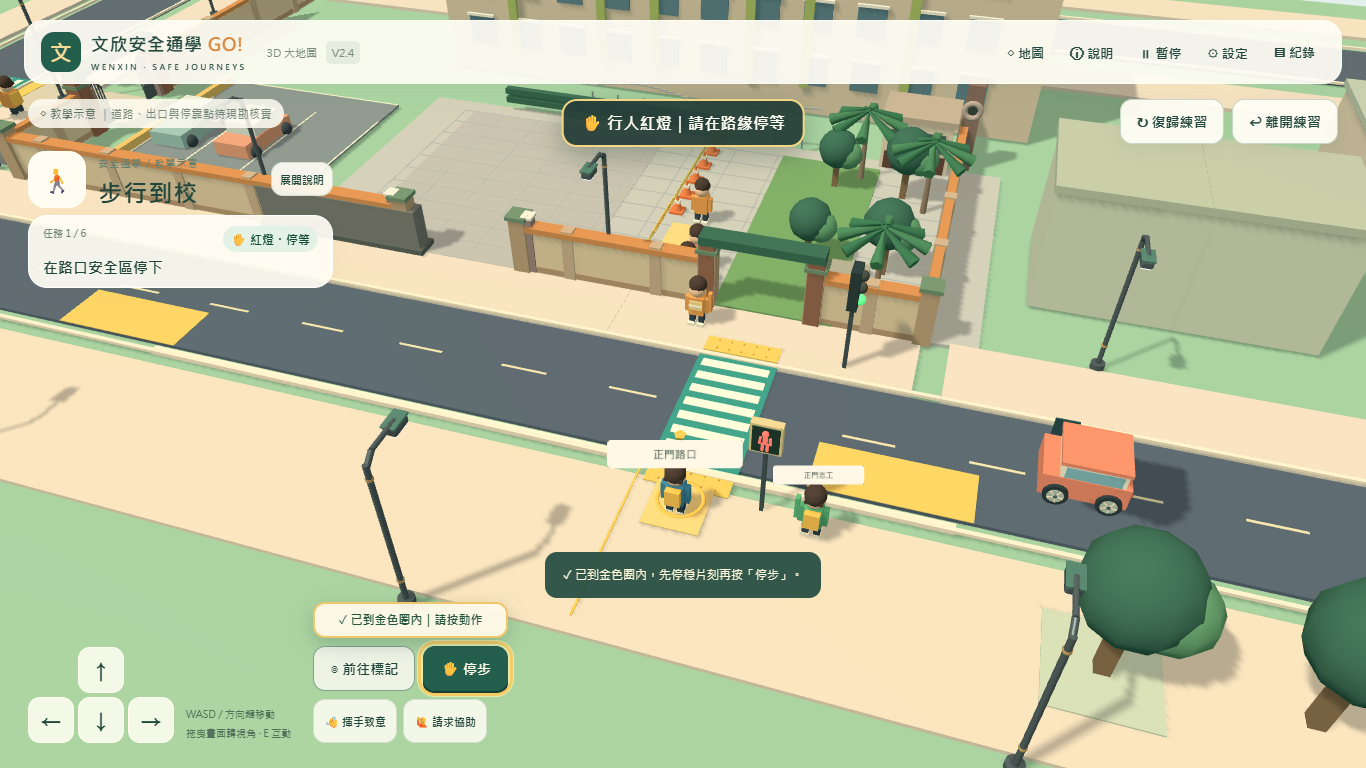
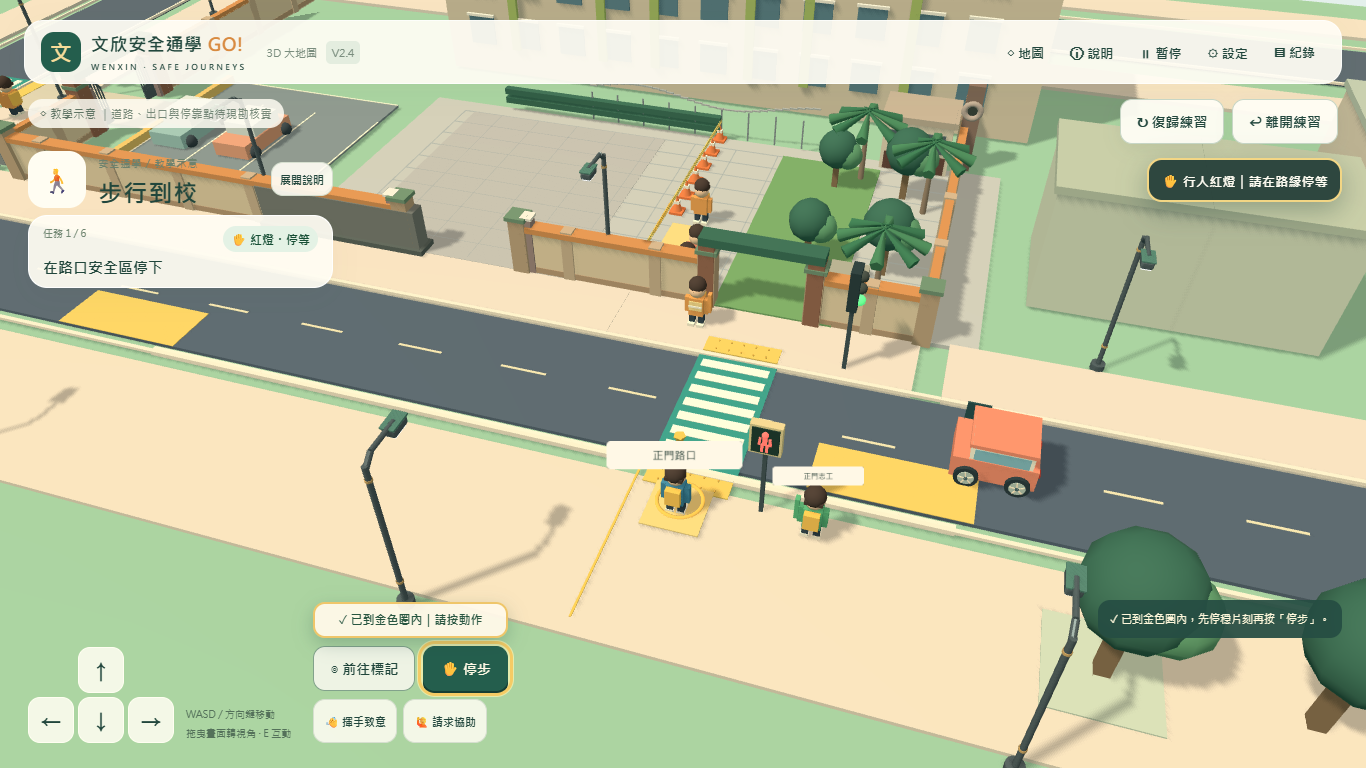
Show contextual prompts near interactions and clear game view

diff --git a/src/main.ts b/src/main.ts
@@ -18,7 +18,7 @@ app.innerHTML=`<div id="world"></div>
 <aside id="greeting-reminder" role="status" aria-live="polite" aria-label="問好提醒" hidden><button id="dismiss-greeting" aria-label="關閉問好提醒">×</button><strong><span class="greeting-full">👋 記得向老師／志工問好</span><span class="greeting-short">👋 記得說早安！</span></strong><p>已安全過街，遇見老師或志工時說聲早安！</p><button id="greet-now" class="primary">👋 向老師／志工問好</button></aside>
 <section id="hud" class="compact" hidden><div class="chapter"><span id="scene-icon"></span><div><small id="scene-kicker">安全通學任務</small><h1 id="scene-title"></h1></div><button id="hud-toggle" aria-expanded="false">展開說明</button></div><section class="task-card"><div class="task-top"><span id="step-counter"></span><span id="signal">✋ 停等</span></div><div class="progress"><i id="progress"></i></div><h2 id="objective"></h2><p id="tip"></p><div class="evidence-row"><span>◎ 安全操作</span><span id="evidence">尚未開始</span></div></section><div id="world-caption" aria-live="polite"></div></section>
 <section id="explore-hud" hidden><p class="eyebrow">自由探索 · 教學示意</p><h1 id="explore-title">走進安全通學大地圖</h1><p id="nearby">靠近地上的金色地點，就能開始練習。</p><button id="overview" aria-pressed="false">◉ 看四面圍牆與雙校門</button></section>
-<footer id="controls" hidden><div class="movement"><div class="dpad" aria-label="移動方向"><button data-move="0,-1" aria-label="向前移動">↑</button><button data-move="-1,0" aria-label="向左移動">←</button><button data-move="0,1" aria-label="向右移動">↓</button><button data-move="1,0" aria-label="向後移動">→</button></div><span class="keyboard-help">WASD / 方向鍵移動<br>拖曳畫面轉視角 · E 互動</span></div><div class="actions"><div id="interaction-hint" role="status" aria-live="polite" hidden>◎ 走進金色圈，再按下方動作</div><button id="assist">◎ 前往標記</button><button id="interact" class="primary">開始互動</button><div class="minor-actions"><button id="greet">👋 揮手致意</button><button id="help">🙋 請求協助</button><button id="exit-vehicle" hidden>🚪 下車</button><button id="release-belt" hidden>🔓 解扣</button></div></div></footer>
+<footer id="controls" hidden><div class="movement"><div class="dpad" aria-label="移動方向"><button data-move="0,-1" aria-label="向前移動">↑</button><button data-move="-1,0" aria-label="向左移動">←</button><button data-move="0,1" aria-label="向後移動">↓</button><button data-move="1,0" aria-label="向右移動">→</button></div><span class="keyboard-help">WASD / 方向鍵移動<br>拖曳畫面轉視角 · E 互動</span></div><div class="actions"><div id="interaction-hint" role="status" aria-live="polite" hidden>◎ 走進金色圈，再按下方動作</div><button id="assist">◎ 前往標記</button><button id="interact" class="primary">開始互動</button><div class="minor-actions"><button id="greet">👋 揮手致意</button><button id="help">🙋 請求協助</button><button id="exit-vehicle" hidden>🚪 下車</button><button id="release-belt" hidden>🔓 解扣</button></div></div></footer>
 <dialog id="menu" class="welcome"><p class="eyebrow">LET'S EXPLORE WENXIN</p><h1>走進同一張<br>安全通學大地圖<span>。</span></h1><p>用方向鍵或觸控在校門、步道與候車區走動；靠近金色地點開始練習；步行任務先走進金色圈，再按動作鍵。</p><div class="intro-pills"><span>✋ 不用比快</span><span>🌱 錯誤立即矯正</span><span>🔒 匿名本機</span></div><p class="scope-note">校門外觀參照公開街景與校方照片重新建模；路線、停靠點和改善配置均為教學示意。</p><button id="start" class="primary">進入大地圖 →</button></dialog>
 <dialog id="map-panel" class="small-dialog map-panel"><h2>◇ 大地圖</h2><p>這些是同一張 3D 地圖上的練習地點。可以步行探索；「輔助定位」會把角色帶到該地點的安全等候區，無需穿越車道或鏈條。</p><label class="direction-label">步行方向<select id="direction"><option value="toSchool">上學／到校</option><option value="fromSchool">放學／返家</option></select></label><div class="place-list">${exploreSites.map(site=>`<button data-place="${site.scenario.id}"><span>${site.scenario.icon}</span><b>${site.scenario.label}</b><small>${site.area}</small><em>輔助定位</em></button>`).join('')}</div><button class="primary" data-close="map-panel">回到大地圖</button></dialog>
 <dialog id="guide-panel" class="small-dialog guide-panel" aria-labelledby="guide-title"><h2 id="guide-title">操作與安全說明</h2><div class="guide-scroll" tabindex="0"><h3>在大地圖行走</h3><p>用方向鍵、WASD 或畫面方向鍵移動。靠近金色地點才會顯示附近名稱；遠離後文字會消失。按「開始練習」進入實際操作。</p><h3>金色圈互動</h3><p>可步行的任務先讓角色走進地上的金色圈，站到圈內後再按右側任務動作或 E 鍵；已坐在汽車或機車上的任務，請依車內提示等候與操作。按「前往標記」會讓角色自動走到金色圈，抵達後仍須自己按動作；這不會跳過停看、排隊、號誌或乘車安全檢查。</p><h3>校門與接送</h3><p>正門圍牆在校園與人行道交界。從正門朝外看，左邊是樹蔭學生步道，右邊是安親班接駁車。側門旁是停車場，請走分隔的側門步道；不可穿越車行區或錐鏈。</p><h3>安全操作</h3><p>過馬路先停、看左右、確認行人號誌燈號；小綠人亮起且車輛停讓後，再走斑馬線。安全走到對面後，可向步道旁老師／志工揮手問好，再沿人行步道直接入校；問好不是過街放行條件。校車與安親班車先排隊、核對車輛，停妥後上下車。家長汽車送學時從車內等短暫停妥，解帶、看後方來車，從人行道側下車並關好車門；沿人行道走到斑馬線。機車送學須依序停妥，再觀察後方與行人，從安全側下車；正門與側門機車點不與兩側汽車臨停混用。錯誤會立刻阻擋，關閉提示後從安全位置重試。</p><h3>其他操作</h3><p>按「前往標記」會自動走進目前任務的金色圈，圈內提示亮起後，仍需自己按互動及通過安全檢查；過街後走進校門會自動完成。上方可隨時暫停；開啟說明、地圖或設定時，角色與場景也會暫停。練習畫面可按「復歸練習」從安全起點重來，或按「離開練習」返回大地圖；暫停和錯誤提示中也有相同按鈕。</p></div><button class="primary" data-close="guide-panel">關閉說明・繼續遊戲</button></dialog>
@@ -45,7 +45,7 @@ function onEvaluation(result:Evaluation){
   if(!result.allowed){release();$('feedback-message').textContent=result.message;$('leave-feedback').hidden=!journey;$('restart-feedback').hidden=!journey;const steps=feedbackSteps(result);$('demo-steps').innerHTML=steps.map((s,i)=>`<div class="demo-step"><b>${i+1}</b>${s}</div>`).join('');$('demo-caption').textContent='安全動作已暫停；回到等待點，還可以再練習。';if(!$<HTMLDialogElement>('feedback').open)$<HTMLDialogElement>('feedback').showModal();speak(result.message);}
 }
 exploration.onResult=onEvaluation;
-function enterMap(){release();$<HTMLDialogElement>('menu').close();$('controls').hidden=false;$('explore-hud').hidden=false;world.overview=true;updateOverviewUI();updateUI();toast('先看校園四面圍牆；按「回到角色」開始走動。');}
+function enterMap(){release();$<HTMLDialogElement>('menu').close();$('controls').hidden=false;$('explore-hud').hidden=false;world.overview=true;updateOverviewUI();updateUI();}
 function updateOverviewUI(){const active=world.overview;$('explore-hud').classList.toggle('overview',active);$('explore-title').textContent=active?'四面圍牆・正門與側門':'走進安全通學大地圖';$('overview').textContent=active?'◎ 回到角色，沿步道行走':'◉ 看四面圍牆與雙校門';$('overview').setAttribute('aria-pressed',String(active));app.dataset.view=active?'campus-overview':'follow';}
 function returnToMap(completed=false){
   release();greetingDismissed=false;greetingAnnounced=false;const detached=!!journey&&completed&&atDetachedDestination(journey.position);if(journey){exploration.position=completed&&!detached?{...journey.position}:{...entryPosition};journey=undefined;}
@@ -58,7 +58,8 @@ function startPractice(){
   for(const d of document.querySelectorAll<HTMLDialogElement>('dialog[open]'))d.close();$('hud').hidden=false;setHudCompact(true);$('controls').hidden=false;
   $('explore-hud').hidden=true;
   $('scene-icon').textContent=selected.icon;$('scene-title').textContent=selected.label;$('scene-kicker').textContent=`${journey.reverse?'放學旅程':'安全通學'} / 教學示意`;
-  toast(['parent','scooter'].includes(selected.mode)?'已坐在車上，先坐穩等車停妥，再依提示操作。':'先走進金色圈再按動作；也可點「前往標記」自動走到圈內。');updateUI();
+  if(['parent','scooter'].includes(selected.mode))toast('已坐在車上，請坐穩等車停妥。');
+  updateUI();
 }
 function restartPractice(){
   if(!journey)return;
@@ -84,7 +85,7 @@ function interact(action=journey?.current?.action,extras:Record<string,boolean>=
   updateUI();
 }
 function updateUI(){
-  if(!journey){$('practice-actions').hidden=true;$('pause-practice-actions').hidden=true;$('status-banner').hidden=true;$('greeting-reminder').hidden=true;$('interaction-hint').hidden=true;$('ride-view').hidden=true;const site=nearbySite(exploration.position),nearest=nearestSite(exploration.position);$('nearby').textContent=site?`${site.scenario.icon} ${site.scenario.label}就在身旁。按「開始練習」。`:`最近地點：${nearest.scenario.label}。沿人行空間前進，或開地圖輔助定位。`;$('interact').textContent=site?`開始${site.scenario.label}`:'靠近地點開始';$('interact').classList.remove('ready');$('assist').textContent='◇ 查看大地圖';$('greet').textContent='👋 揮手致意';$('exit-vehicle').hidden=true;$('release-belt').hidden=true;app.dataset.x=exploration.position.x.toFixed(3);app.dataset.z=exploration.position.z.toFixed(3);app.dataset.stage='explore';app.dataset.mode='explore';app.dataset.gate='false';app.dataset.complete='false';app.dataset.inInteractionCircle='false';return;}$('practice-actions').hidden=false;$('pause-practice-actions').hidden=false;const s=journey.current;
+  if(!journey){$('practice-actions').hidden=true;$('pause-practice-actions').hidden=true;$('status-banner').hidden=true;$('greeting-reminder').hidden=true;$('interaction-hint').hidden=true;$('ride-view').hidden=true;const site=nearbySite(exploration.position);$('explore-hud').hidden=!world.overview&&!site;$('nearby').textContent=site?`${site.scenario.icon} ${site.scenario.label}就在身旁。按「開始練習」。`:'';$('interact').textContent=site?`開始${site.scenario.label}`:'靠近地點開始';$('interact').classList.remove('ready');$('assist').textContent='◇ 查看大地圖';$('greet').textContent='👋 揮手致意';$('exit-vehicle').hidden=true;$('release-belt').hidden=true;app.dataset.x=exploration.position.x.toFixed(3);app.dataset.z=exploration.position.z.toFixed(3);app.dataset.stage='explore';app.dataset.mode='explore';app.dataset.gate='false';app.dataset.complete='false';app.dataset.inInteractionCircle='false';return;}$('practice-actions').hidden=false;$('pause-practice-actions').hidden=false;const s=journey.current;
   $('step-counter').textContent=`任務 ${Math.min(journey.index+1,journey.steps.length)} / ${journey.steps.length}`;
   $('progress').style.width=`${journey.index/journey.steps.length*100}%`;$('objective').textContent=s?.label??'安全旅程完成';$('tip').textContent=s?.tip??'在自己的步調裡繼續練習。';$('interact').textContent=s?.verb??'✓ 已完成';
   const inCircle=!!s&&Math.hypot(journey.position.x-s.target.x,journey.position.z-s.target.z)<=INTERACTION_RADIUS;
@@ -95,7 +96,9 @@ function updateUI(){
   const actionReady=inCircle&&!settling&&!waitingForVehicle&&!waitingForSignal&&!waitingForAdult;
   const rideActive=journey.rideAt!==null&&!journey.facts.vehicleStopped&&!['parent','scooter'].includes(journey.scenario.mode);
   const seatedNoRing=journey.scenario.mode==='scooter'&&journey.inside||journey.scenario.mode==='parent'&&journey.inside&&s?.id==='park';
-  $('interaction-hint').hidden=journey.complete||!s||rideActive;
+  const nearInteraction=!!s&&(Math.hypot(journey.position.x-s.target.x,journey.position.z-s.target.z)<=3.5||journey.inside||s.id==='cross');
+  $('hud').classList.toggle('context-distant',!nearInteraction);
+  $('interaction-hint').hidden=journey.complete||!s||rideActive||!nearInteraction;
   $('interaction-hint').textContent=seatedNoRing?(waitingForVehicle?'🛑 車內坐穩｜等車完全停穩':'✓ 車內安全位置｜請按任務動作'):!inCircle?(assist?'◎ 正走向金色圈｜抵達後按動作':'◎ 先走進金色圈｜可按「前往標記」'):settling?'✋ 已到圈內｜先停穩片刻':waitingForVehicle?'🛑 已到圈內｜等車完全停穩':waitingForSignal?'🚦 已到圈內｜等小綠人與車輛停讓':waitingForAdult?'🧑 已到圈內｜等成人放行':'✓ 已到金色圈內｜請按動作';
   $('interact').classList.toggle('ready',actionReady);app.dataset.inInteractionCircle=String(inCircle);
   $('ride-view').hidden=!rideActive;
@@ -114,7 +117,7 @@ function updateUI(){
   else if(journey.scenario.mode==='parent'&&journey.inside){if(!journey.facts.vehicleStopped)message='🚙 汽車行進中｜停穩前不能開門';else{message=journey.facts.rearTrafficClear?'🛑 汽車已停穩｜看後方再開安全側車門':'🛑 汽車已停穩｜後方有車，先等';bannerKind='stopped';}}
   else if(journey.inside){message=journey.facts.vehicleStopped?'🛑 車輛已停穩｜依序下車':journey.scenario.mode==='mrt'?'🚈 列車行進中｜坐穩、扶好':journey.scenario.mode==='bus'||journey.scenario.mode==='transfer'?'🚍 公車行進中｜坐穩、扶好':journey.scenario.mode==='school_bus'?'🚌 校車行進中｜坐穩、扶好':'🚐 接駁車行進中｜坐穩、扶好';bannerKind=journey.facts.vehicleStopped?'stopped':'wait';}
   else if(['clearance','board','arrival','alight'].includes(s?.id)){message=journey.facts.vehicleStopped?'🛑 車輛已停穩｜依序操作':'🚐 車輛行進中｜先在安全區等候';bannerKind=journey.facts.vehicleStopped?'stopped':'wait';}
-  banner.dataset.state=bannerKind;$('status-message').textContent=message;banner.hidden=journey.complete||!message;
+  banner.dataset.state=bannerKind;$('status-message').textContent=message;banner.hidden=journey.complete||!message||rideActive||remind||(!nearInteraction&&!afterCrossing);
   $('world-caption').textContent=afterCrossing?(journey.reverse?'已安全走到對面，沿步道往街區前進。':'已安全過街；經過老師／志工可按「問好」，沿步道直接入校。'):road?'駕駛須停讓行人；我們也先看清楚，再安全通行。':journey.scenario.mode==='after_school_shuttle'?(journey.gateOpen?'✓ 成人已放行，請走指定登車口。':'鏈條不穿越・車停妥後仍須成人確認。'):journey.scenario.mode==='school_bus'?'校車只在校門外上下車，沿人行空間進校。':journey.scenario.mode==='parent'?'家長在兩側示意區短暫停妥；看後方、從人行道側下車，關門後讓車儘速駛離。':journey.scenario.mode==='scooter'?'機車依序在正門或側門示意點停妥後下車；不與兩側汽車臨停混流。':'所有道路、候車區與車廂都是教學示意。';
   const ev=collector.events.filter(e=>e.sessionId===collector.sessionId&&e.sceneId===journey!.scenario.id);$('evidence').textContent=`${ev.filter(e=>e.eventType==='safe_action'||e.eventType==='retry_success').length} 筆足跡`;
   $('assist').textContent=assist?'✋ 停止行走':'◎ 前往標記';$('exit-vehicle').hidden=!journey.inside;$('exit-vehicle').textContent=journey.scenario.mode==='scooter'?'🛵 下車':'🚪 下車';$('release-belt').hidden=!journey.inside||['mrt','bus','transfer','scooter'].includes(journey.scenario.mode);

diff --git a/src/style.css b/src/style.css
@@ -52,3 +52,40 @@ dialog>h2{padding-right:34px}.guide-panel{width:min(570px,calc(100vw - 24px));ov
 #ride-view{position:absolute;z-index:2;top:165px;right:22px;width:250px;height:158px;border:3px solid #fff7df;border-radius:16px;box-shadow:0 10px 30px #173e3370;pointer-events:none;overflow:hidden}
 #ride-view strong{position:absolute;top:5px;left:6px;right:6px;padding:3px 6px;border-radius:8px;background:#163e35dd;color:#fff8e5;font-size:11px;text-align:center}
 @media(max-width:600px){#interaction-hint{font-size:10px;padding:6px}#ride-view{top:335px;right:10px;width:162px;height:112px;border-width:2px}#ride-view strong{font-size:9px;padding:2px}}
+
+/* Keep the avatar and the center of the 3D scene free of instructional panels. */
+#hud.context-distant.compact .task-card{display:none}
+#hud.context-distant .chapter{display:inline-flex;max-width:100%;padding:6px 8px;border:1px solid #fff9;border-radius:14px;background:#fffdf4dc;box-shadow:0 5px 18px #254d3b14}
+#hud.context-distant #scene-icon{padding:6px;font-size:18px}
+#hud.context-distant .chapter h1{font-size:15px;margin-top:1px}
+#hud.context-distant .chapter small{font-size:9px}
+#hud.context-distant #hud-toggle{min-height:32px}
+#status-banner{top:158px;right:24px;left:auto;transform:none;width:max-content;max-width:min(295px,calc(100vw - 380px));padding:9px 12px;text-align:left}
+#status-banner strong{font-size:calc(13px * var(--text-scale));line-height:1.35}
+#toast{left:auto;right:24px;transform:none;bottom:130px;max-width:295px;width:max-content;padding:9px 12px;text-align:left;font-size:11px}
+#feedback[open]{position:fixed;top:154px;right:22px;bottom:auto;left:auto;margin:0;width:min(360px,calc(100vw - 44px));max-height:calc(100dvh - 174px);padding:22px;border-radius:18px}
+#feedback::backdrop{background:#173e3326;backdrop-filter:none}
+#feedback .dialog-actions{gap:7px;margin-top:12px}
+#feedback .dialog-actions button{padding:8px 10px;font-size:12px}
+#feedback .demo-step{padding:9px;margin:6px 0;min-height:42px;font-size:12px}
+#feedback #demo-caption{min-height:0;margin:7px 0;font-size:11px}
+#greeting-reminder{top:158px;right:24px;width:260px}
+@media(max-width:1000px){#status-banner{top:155px;right:16px;max-width:min(270px,calc(100vw - 310px))}#toast{right:16px;bottom:145px;max-width:255px}}
+@media(max-width:600px){
+  #hud.context-distant .chapter{padding:4px 6px;gap:5px}
+  #hud.context-distant #scene-icon{font-size:15px}
+  #hud.context-distant .chapter h1{font-size:12px}
+  #hud.context-distant .chapter small{font-size:7px}
+  #status-banner{top:238px;right:10px;left:auto;width:max-content;max-width:174px;padding:6px 8px;border-width:1px;border-radius:9px}
+  #status-banner strong{font-size:calc(10px * var(--text-scale))}
+  #toast{right:10px;left:auto;bottom:200px;max-width:176px;padding:7px 9px;font-size:10px;line-height:1.4}
+  #greeting-reminder{top:238px;right:10px;width:174px;padding:8px;border-radius:10px}
+  #greeting-reminder strong{font-size:11px}
+  #greeting-reminder .primary{margin-top:22px;font-size:9px;min-height:36px}
+  #feedback[open]{top:auto;right:0;bottom:0;left:0;width:100vw;max-width:none;max-height:42dvh;padding:15px 16px calc(13px + env(safe-area-inset-bottom));border-radius:18px 18px 0 0}
+  #feedback h2{margin:3px 0;font-size:17px}
+  #feedback p{margin:6px 0;font-size:11px;line-height:1.45}
+  #feedback .demo-step{min-height:35px;padding:6px;font-size:10px}
+  #feedback .dialog-actions{position:sticky;bottom:0;padding:8px 0 0;margin-top:6px;background:#fffdf4}
+  #feedback .dialog-actions button{min-height:38px;padding:6px;font-size:10px}
+}

diff --git a/tests/e2e/game.spec.ts b/tests/e2e/game.spec.ts
@@ -70,6 +70,42 @@ test('the guide explains gold rings and auto walk reaches one before the action'
   await page.locator('#interact').click();
   await expect(page.locator('#app')).toHaveAttribute('data-stage','left');
 });
+test('context instructions appear near the side-gate mark and safety feedback stays off the avatar',async({page})=>{
+  await page.setViewportSize({width:390,height:844});await start(page,'walk_side');
+  await expect(page.locator('#hud')).toHaveClass(/context-distant/);
+  await expect(page.locator('#hud .task-card')).toBeHidden();
+  await expect(page.locator('#interaction-hint')).toBeHidden();
+  await expect(page.locator('#status-banner')).toBeHidden();
+  await page.screenshot({path:'docs/screenshots/side-walk-distant-390.png'});
+  await page.locator('#hud-toggle').click();
+  await expect(page.locator('#hud .task-card')).toBeVisible();
+  await page.locator('#hud-toggle').click();
+  await expect(page.locator('#hud .task-card')).toBeHidden();
+  await page.locator('#assist').click();
+  await expect(page.locator('#hud .task-card')).toBeVisible({timeout:20000});
+  await expect(page.locator('#interaction-hint')).toBeVisible();
+  await page.screenshot({path:'docs/screenshots/side-walk-near-390.png'});
+  await page.locator('#interact').click();
+  await page.locator('#interact').click();
+  await expect(page.locator('#feedback')).toBeVisible({timeout:8000});
+  const feedback=await page.locator('#feedback').boundingBox();
+  expect(feedback).not.toBeNull();
+  expect(feedback!.y).toBeGreaterThan(430);
+  await page.screenshot({path:'docs/screenshots/side-walk-feedback-390.png'});
+});
+for(const size of [{width:1366,height:768},{width:768,height:1024}]){
+  test(`distant and nearby prompts stay at the edge ${size.width}x${size.height}`,async({page})=>{
+    await page.setViewportSize(size);await start(page,'walk_side');
+    await expect(page.locator('#hud .task-card')).toBeHidden();
+    await expect(page.locator('#status-banner')).toBeHidden();
+    await page.screenshot({path:`docs/screenshots/side-walk-distant-${size.width}.png`});
+    await page.locator('#assist').click();
+    await expect(page.locator('#hud .task-card')).toBeVisible({timeout:20000});
+    await page.screenshot({path:`docs/screenshots/side-walk-near-${size.width}.png`});
+    const card=await page.locator('#hud .task-card').boundingBox();
+    expect(card!.x+card!.width).toBeLessThan(size.width/2);
+  });
+}
 test('3D wheels rotate with road traffic and scooters, then stop with brake lights',async({page})=>{
   await page.setViewportSize({width:1366,height:768});await page.goto('/');await page.locator('#start').click();
   const world=page.locator('#world');

diff --git a/README.md b/README.md
@@ -20,6 +20,8 @@ npm run preview
 
 開啟終端機顯示的本機網址，通常為 http://127.0.0.1:5173/ 。建置位於 dist，需 HTTP 伺服器開啟，不支援雙擊 HTML；預設僅監聽本機、不對外發布。
 
+2026-11-05 最新驗證：`npm install` 0 弱點，lint、typecheck、376 項單元測試及正式 build 通過。完整 45 項瀏覽器測試初跑 43 項通過；修正手機問好按鍵間距與觸控方向鍵朗讀名稱後，兩項複驗 2/2 通過。正式版桌面 1366×768、平板 768×1024、手機 390×844 及離線重載 4/4 通過；詳見 [實測紀錄](docs/TEST_REPORT.md)。實機 iOS／Android 與現地細節仍待驗收。
+
 同一 Wi-Fi 實機試玩時，可自行執行 `npm run dev -- --host 0.0.0.0`，在手機開啟 `http://電腦區網IP:5173/`。本次沒有啟用區網監聽或修改防火牆。一般區網 HTTP 不提供 Service Worker 離線功能；離線保存需要 HTTPS 或 localhost。匿名 ID 已提供不依賴 randomUUID 的相容方式。
 
 ## 操作
@@ -28,6 +30,7 @@ npm run preview
    地點文字只在角色靠近時浮現、離開後消失；鳥瞰時隱藏。上方「說明」開啟可捲動的遊戲說明，「暫停」停止角色及場景；所有對話窗都可按右上角 × 關閉。危險提示關閉後會回安全檢查點重試。
 2. 靠近金色地點按「開始練習」，從地圖當下位置進入實作流程。地圖中的「輔助定位」可把角色帶到所選地點的安全等候區；步行方向也可在地圖選擇。每種練習右上方都有「復歸練習」與「離開練習」：復歸從本次安全起點重來，離開則回到大地圖的本次起點；暫停與錯誤提示中也有這兩個按鈕，已記錄的匿名安全操作仍保留。安親班接駁在獨立示意目的地完成後，按「回到本次起點大地圖」會用輔助定位返回，避免角色困在沒有步行連接的區域。
 3. 可步行的任務先讓角色走進地上的金色圓圈；圈內提示亮起後，按 E 或右側任務動作，也可點 3D 標記、車門、扶手與座椅。按「前往標記」會自動走到圈內，**到達後仍須自行按動作**，不會跳過停看、號誌、排隊與上下車安全檢查。第一個「停步」動作要在圈內真正停穩片刻，按鍵才會亮起。汽車與機車送學從車內開始，先依車內提示安全操作，無須起身找金圈。上方「說明」可隨時重新查看此操作方式。
+   任務卡只在角色靠近目前互動點、車內需要操作或正在過街時顯示；走遠後自動收起，仍可按「展開說明」自行查看。號誌與停車安全提醒會在需要決策時出現在畫面邊緣，錯誤矯正視窗在手機下緣顯示，避免長時間遮住角色。畫面方向鍵的朗讀名稱與箭頭方向一致。
 4. 路口先實際停步、看左、看右，再按「確認行人號誌燈號」；看到小綠人並確認轉彎車停讓後，沿斑馬線通行。行人紅燈時按鍵會立即阻擋並提示重試。安全過街、走近步道旁老師／志工時，會出現可關閉的問好提醒；可按提醒直接說早安，對方會揮手回應。走遠或問好後提醒消失；問好不阻擋沿人行步道直接入校，走進校門後自動完成步行練習。
    正門與側門路口的行人號誌放在學生等候側，只顯示紅色站立人形或小綠人；車用三色紅綠燈放在馬路另一側，面向來車，不和行人圖案共用燈箱。車用紅燈時示意車輛停在斑馬線前。車輪有可見的輪框輻條，隨車身位移滾動，靠站前減速、煞車燈亮起，停穩後輪子停止；家長汽車在確認停妥前以車外視角顯示。畫面上方的狀態條會提示「紅燈停等」「小綠人亮起」「車已停讓」；即使亮綠燈仍須完成停看與確認停讓。車輛靠站時也會顯示「行進中」及「已停穩」，手機提示不會蓋住方向與互動按鈕。
    正門小門與校園圍牆位於校園和人行道交界，人行道完整保留在圍牆與車道之間，可直接步行進校；四面圍牆僅在受控車行入口及兩處步行門留出開口。側門在復興北路一側的教學街廓，學生由外側街區沿人行道走來，經獨立的斑馬線與號誌，由上學開放的側門進校；老師與志工分站斑馬線兩端，小綠人亮起且車輛停讓後走到行穿線中段兩側引導，車輛放行前退回步道；校側老師回到安全步道供學生過街後問好，不設獨立導護站。側門圍牆旁是停車場，沒有建築；學生走分隔步道，不進入停車區。進入大地圖先顯示「四面圍牆」鳥瞰，按「回到角色」即可近距離行走；側門可在地圖選取「復興北路側門步行」前往。道路角度、停車格、號誌與門口尺寸仍是教學示意，待現勘確認。

diff --git a/docs/TEST_REPORT.md b/docs/TEST_REPORT.md
@@ -2,6 +2,12 @@
 
 日期：2026-11-05（Asia/Taipei）。Windows 開發環境。
 
+## 2026-11-05 依距離顯示互動提示
+
+- 大地圖：離開金色地點後隱藏地點說明，鳥瞰時仍可主動查看。練習：距離目前互動標記約 3.5 公尺內、已在車內或正在過街時才顯示任務卡與圈內提示；可手動展開說明。行人燈號、車輛停等與問好在需要決策時保留，狀態訊息與短回饋移到畫面右側。手機的安全矯正視窗移到下緣，仍可示範、重試、復歸、離開或關閉。
+- `npm install` 0 弱點，lint、typecheck、單元測試 376/376、正式 build 通過。完整 Playwright 45 項初跑 43 項通過；手機問好卡的關閉鍵與操作鍵重疊、方向鍵「向右」朗讀名稱誤標在向下鍵，已修正並各自單獨重跑，2/2 通過。其他 43 項使用同一版功能變更；最後的樣式與方向標籤更正後，相關手機完整流程與觸控再測通過。
+- Playwright 正式版三尺寸及離線重載 4/4 通過。目視核對 `screenshots/side-walk-distant-1366.png`、`screenshots/side-walk-near-768.png`、`screenshots/side-walk-distant-390.png`、`screenshots/side-walk-near-390.png`、`screenshots/side-walk-feedback-390.png` 與 `screenshots/mobile-teacher-reminder-390.png`；提示沒有占據畫面中央，手機問好按鍵不重疊。iOS／Android 實機及低階裝置效能仍待驗收。
+
 ## 2026-11-05 機捷進站與「搭乘公車」地點
 
 - 發現原機捷列車車身與月台邊緣重疊，軌道還橫穿校外汽車道路；初步移開車身後目視仍不合理。最終將三節列車、專用軌道與候車月台改為道路外側平行配置，車門對齊月台邊緣，停穩後才可越過安全線。候車鏡頭從月台側看列車，角色、金圈與車門不再被車廂擋住。

diff --git a/docs/PROGRESS.md b/docs/PROGRESS.md
@@ -1,5 +1,12 @@
 # 開發進度 — V2.4 開放式大地圖
 
+2026-11-05 互動提示收斂與畫面清理：
+
+- [x] 大地圖的地點說明只在角色靠近金色地點或主動切換鳥瞰時顯示；練習中的任務卡在距離互動圈約 3.5 公尺內、車內或正在過街時顯示，走遠自動收起。玩家可自行展開／收起完整說明。
+- [x] 行人號誌、車輛停等與問好等當下需要的提示保留，改靠畫面右側；短訊息也離開中央。手機安全矯正對話框改在下緣，保留示範、重試、復歸、離開及關閉鍵。觸控方向鍵的朗讀名稱修正為與箭頭方向一致。
+- [x] `npm install` 0 弱點，lint、typecheck、376/376 單元測試與正式建置通過。完整 45 項瀏覽器案例初跑 43 項通過；已修正手機問好卡按鍵間距與方向鍵名稱，兩項單獨重跑 2/2 通過。正式版三尺寸與離線重載 4/4 通過，桌面／平板／手機提示位置截圖已目視核對。
+- [ ] iOS／Android 實機及低階裝置效能仍待驗收；地理、站點及停靠位置仍為教學示意。
+
 2026-11-05 機捷進站與公車地點名稱修正：
 
 - [x] 機捷示意月台與三節列車改為沿校外道路外側平行配置，增設連續軌枕與鋼軌；列車從軌道端駛入，停車時車身不壓月台，也不在汽車車道平面交會。月台鏡頭改從候車側觀看，桌面與手機可看見角色、金圈及車門。
